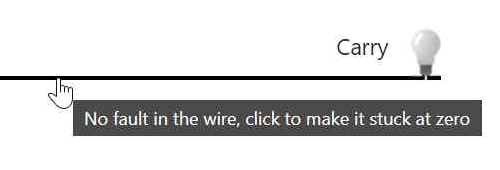
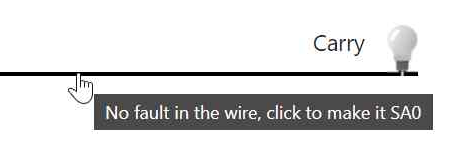
BRB's changes

Changed region(s): [[0.0, 0.1548, 0.9851, 0.8516], [0.6567, 0.2065, 0.7761, 0.3613]]

diff --git a/html/simulation.html b/html/simulation.html
@@ -50,9 +50,9 @@
 
         const classNames = ['default', 'stuck-at-zero', 'stuck-at-one'];
         const descriptions = [
-            'No fault in the wire, click to make it stuck at zero',
-            'Stuck at zero, click to make it stuck at one',
-            'Stuck at one, click to make it fault-free',
+            'No fault in the wire, click to make it SA0',
+            'SA0, click to make it SA1',
+            'SA1, click to make it fault-free',
         ];
 
         let X = 0, Y = 0;
@@ -382,11 +382,11 @@
                                 </div>
                                 <div>
                                     <button class="wire wire-h stuck-at-zero"></button>
-                                    <label>Stuck at 0</label>
+                                    <label>SA0</label>
                                 </div>
                                 <div>
                                     <button class="wire wire-h stuck-at-one"></button>
-                                    <label>Stuck at 1</label>
+                                    <label>SA1</label>
                                 </div>
 
                             </div>
@@ -553,8 +553,8 @@
                             <thead class="">
                             <tr class="center">
                                 <th colspan="3"></th>
-                                <th colspan="2">Actual</th>
-                                <th colspan="2">Fault</th>
+                                <th colspan="2">Without fault</th>
+                                <th colspan="2">With fault</th>
                                 <th ></th>
                             </tr>
                             </thead>

diff --git a/html/procedure.html b/html/procedure.html
@@ -71,7 +71,7 @@
 
 
                     <li class="step">
-                        <p style="margin: 2px">
+                        <p style="margin: 2px; font-weight: bold; font-size: large">
                             Click on any wire successively to make it SA0, SA1, and back to normal
                         </p>
                         <p>
@@ -92,11 +92,11 @@
                                 </div>
                                 <div>
                                     <button class="wire wire-h stuck-at-zero"></button>
-                                    <label>Stuck at 0</label>
+                                    <label>SA0</label>
                                 </div>
                                 <div>
                                     <button class="wire wire-h stuck-at-one"></button>
-                                    <label>Stuck at 1</label>
+                                    <label>SA1</label>
                                 </div>
 
                             </div>

diff --git a/css/style.css b/css/style.css
@@ -88,6 +88,7 @@ iframe{
     padding: 0;
     border: none;
     outline: none;
+    cursor:pointer
 }
 
 
